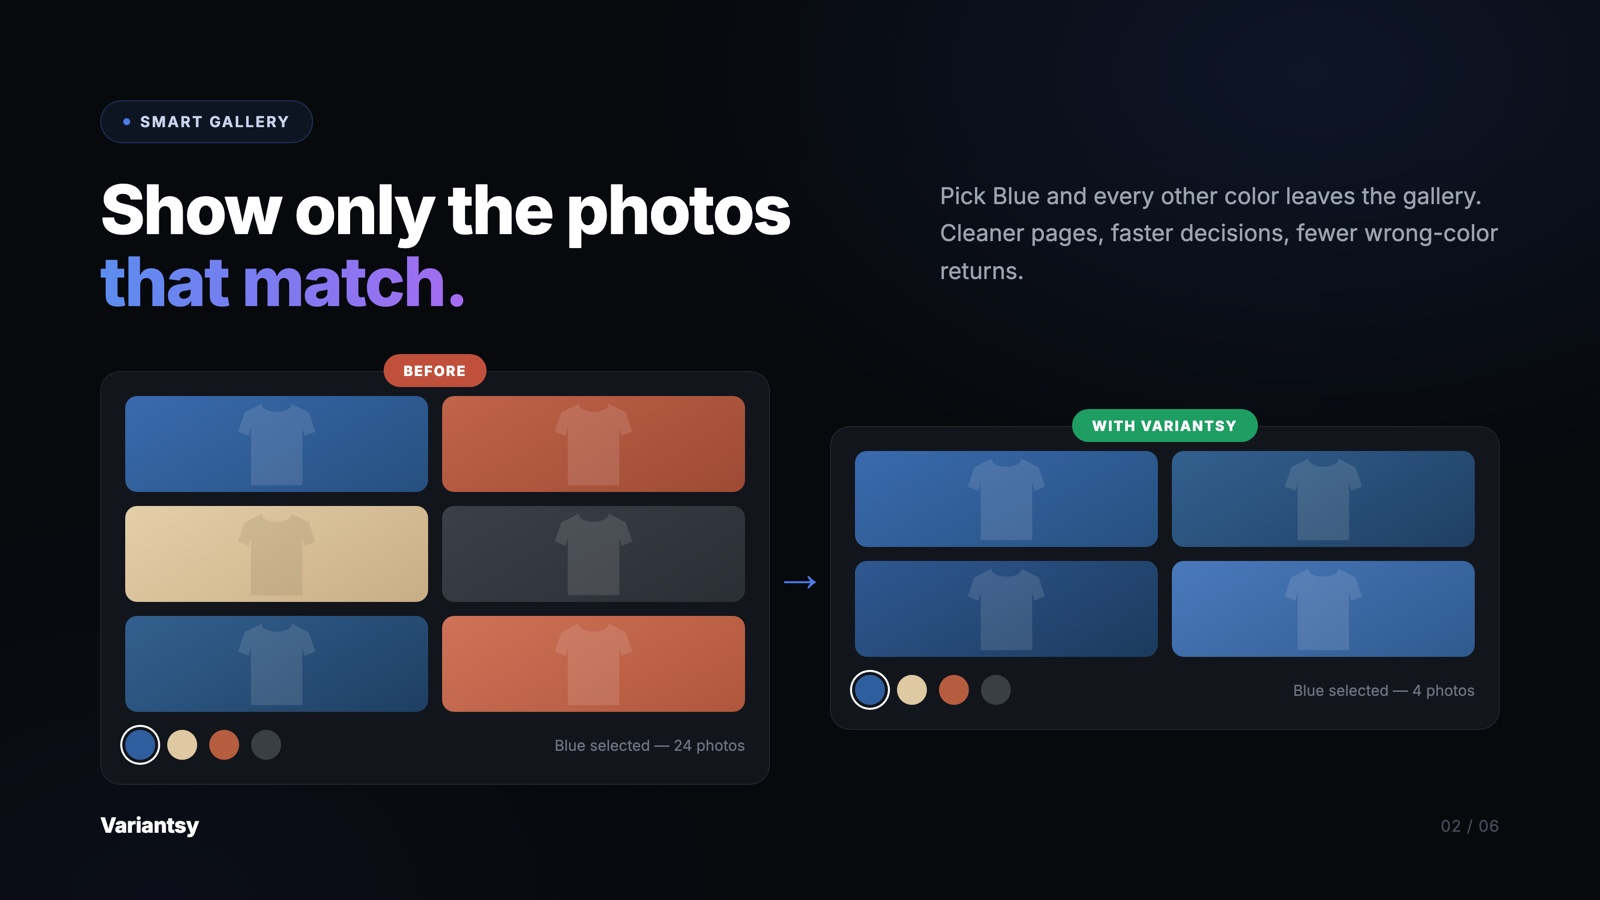
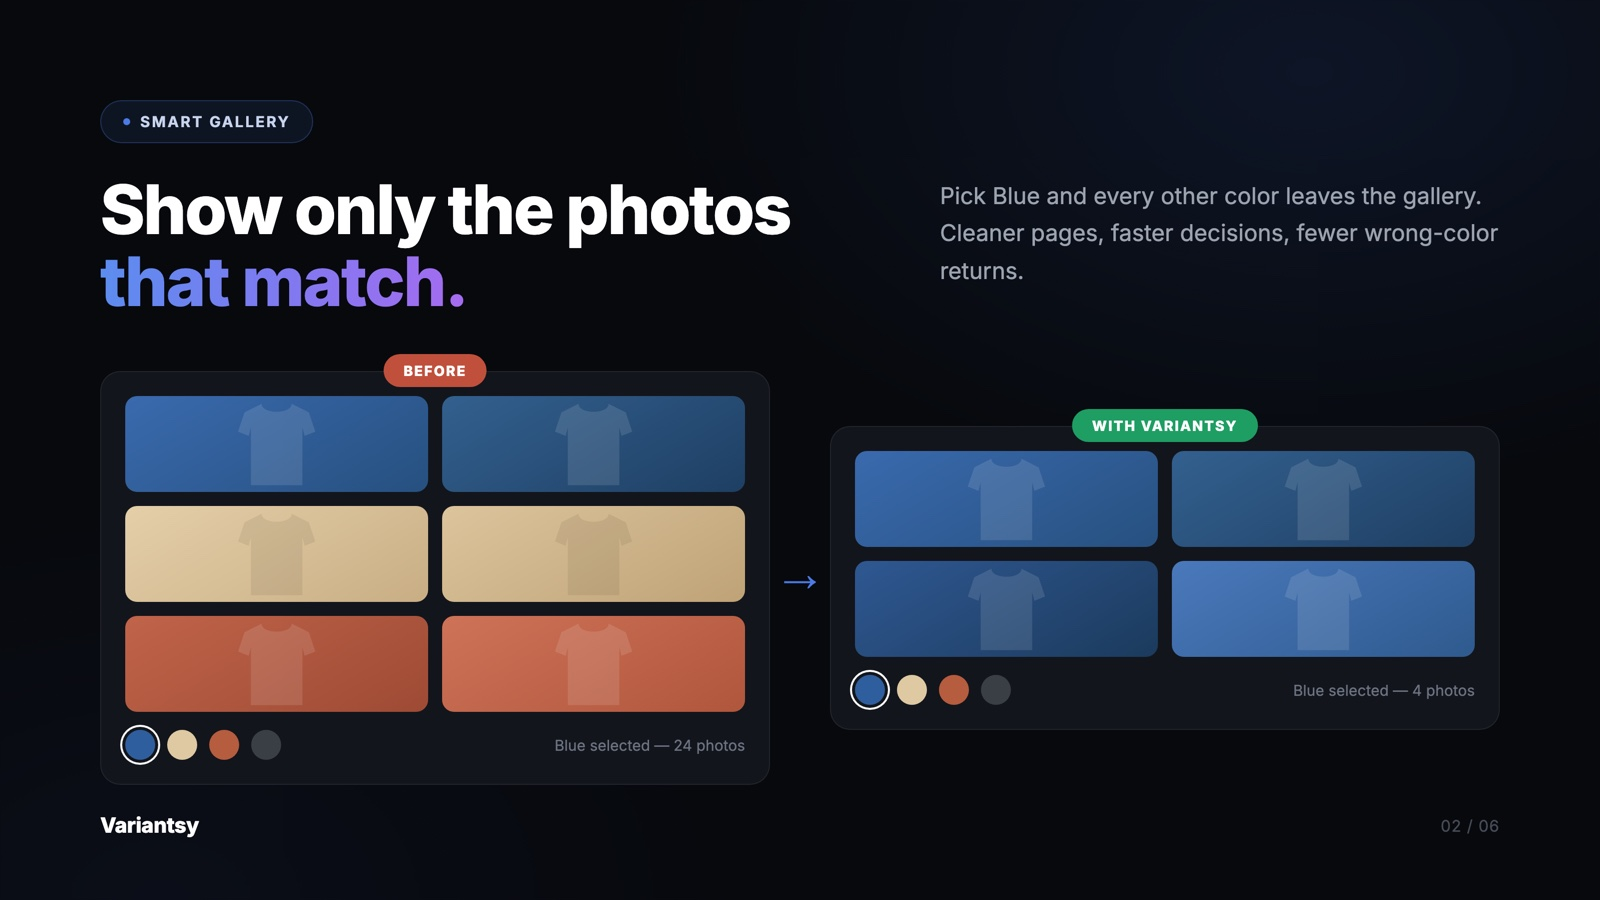
Les coloris se suivent sur la planche du comparatif
La galerie « avant » panachait bleu, terracotta, beige, noir. Une galerie
Shopify range ses photos par coloris : le panachage laissait croire que
c'est le désordre que l'app corrige, alors qu'elle filtre. Deux bleus,
deux beiges, deux terracotta — le contraste porte maintenant sur ce que
fait vraiment l'app.

Changed region(s): [[0.25, 0.4356, 0.4688, 0.6844], [0.0625, 0.6844, 0.2812, 0.8089]]

diff --git a/app-store/slides/slides.html b/app-store/slides/slides.html
@@ -167,10 +167,10 @@
       <span class="tag avant">BEFORE</span>
       <div class="grille-2">
         <div class="ph" style="background:linear-gradient(150deg,#3A6AAE,#26507F)"><div class="tee">TEE_LIGHT</div></div>
-        <div class="ph" style="background:linear-gradient(150deg,#C0644A,#9E4A34)"><div class="tee">TEE_LIGHT</div></div>
-        <div class="ph" style="background:linear-gradient(150deg,#E4CFA9,#C9AE84)"><div class="tee">TEE_DARK</div></div>
-        <div class="ph" style="background:linear-gradient(150deg,#3B4048,#2A2E35)"><div class="tee">TEE_LIGHT</div></div>
         <div class="ph" style="background:linear-gradient(150deg,#33608F,#1E3F63)"><div class="tee">TEE_LIGHT</div></div>
+        <div class="ph" style="background:linear-gradient(150deg,#E4CFA9,#C9AE84)"><div class="tee">TEE_DARK</div></div>
+        <div class="ph" style="background:linear-gradient(150deg,#DCC49C,#BFA377)"><div class="tee">TEE_DARK</div></div>
+        <div class="ph" style="background:linear-gradient(150deg,#C0644A,#9E4A34)"><div class="tee">TEE_LIGHT</div></div>
         <div class="ph" style="background:linear-gradient(150deg,#CE7358,#B0563C)"><div class="tee">TEE_LIGHT</div></div>
       </div>
       <div class="pied-panneau">
